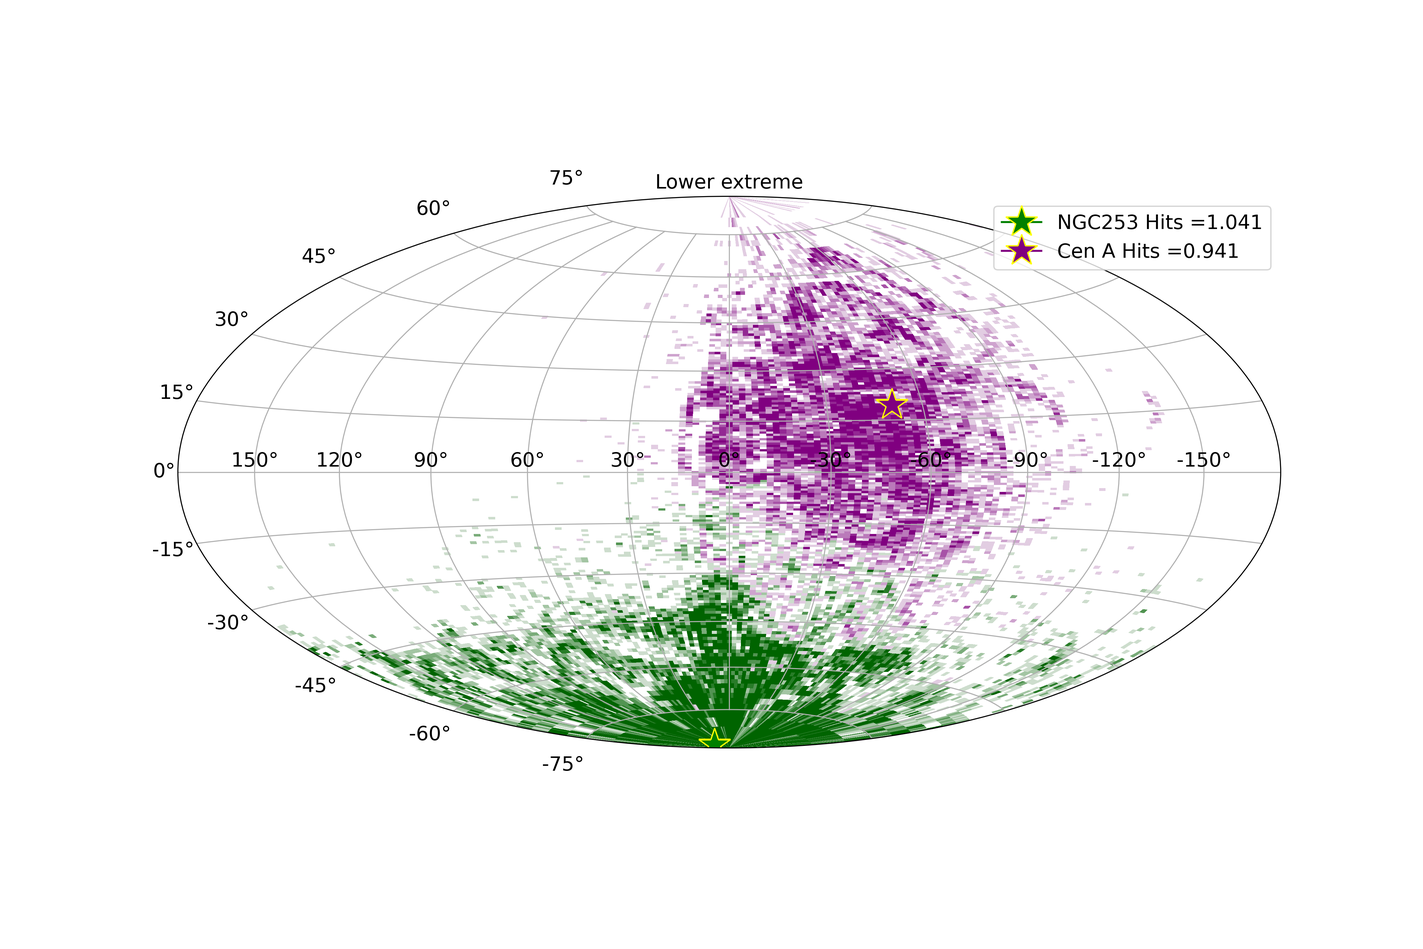
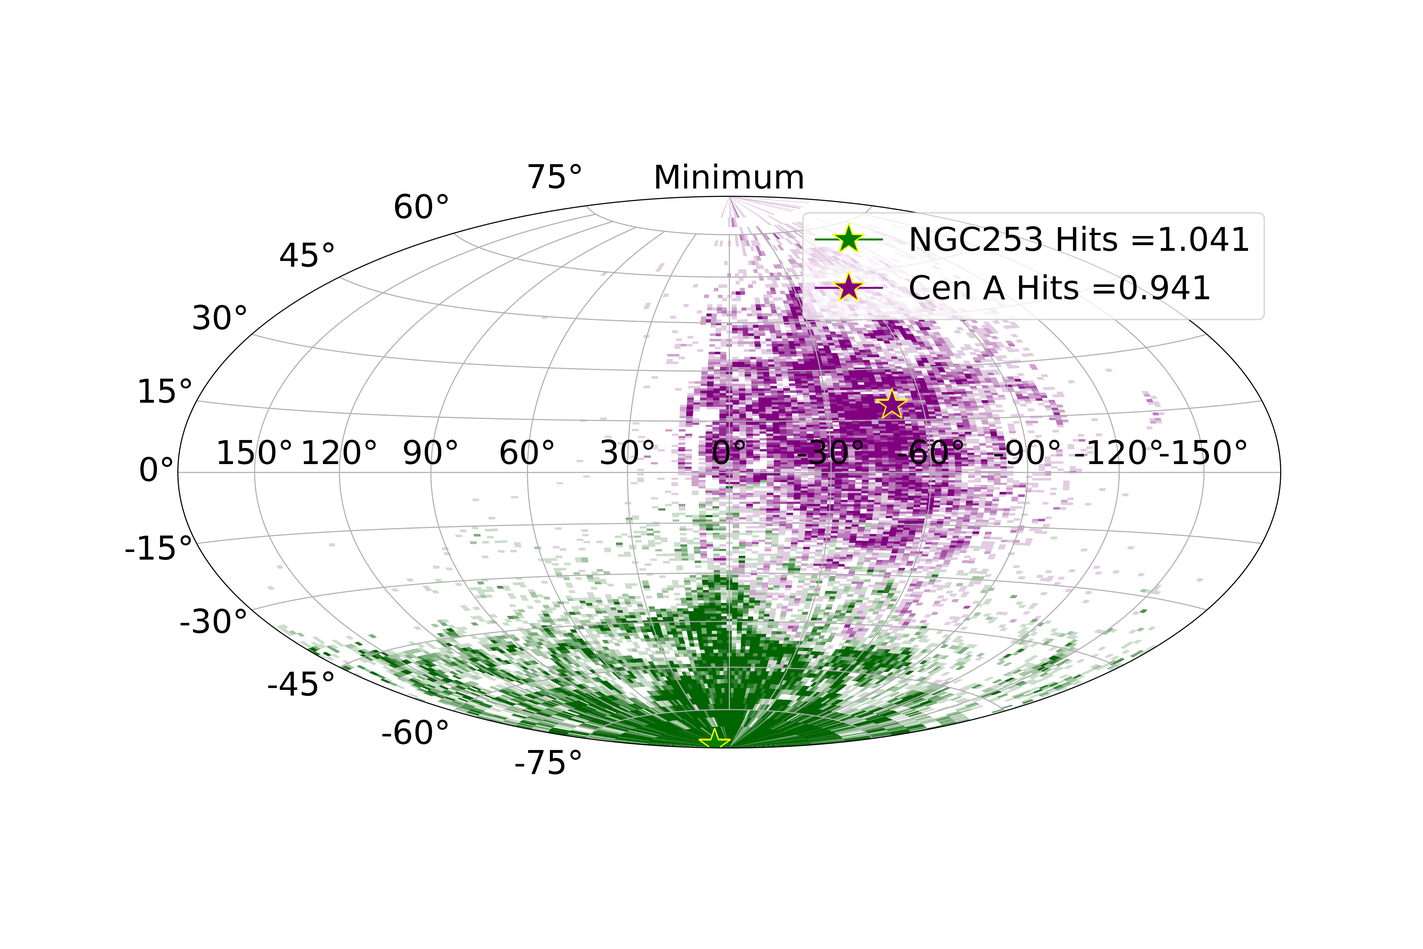
As of 31Jan PM

diff --git a/main.tex b/main.tex
@@ -66,27 +66,27 @@ The origin and structure of the Galactic magnetic field remains a long standing 
 A variety of methods allow observational probes of Galactic magnetic fields, such as starlight polarisation and infrared emission from dust grains, or Zeeman splitting of spectral radio lines in the dust clouds \cite{Beck_2007}. Galactic magnetic fields are also probed by Pulsar dispersion with Faraday rotation, which is sensitive to the magnetic-field component parallel to the line of sight $B_{\parallel}$, and synchrotron radiation which probes the component perpendicular to the line of sight $B_{\perp}$. A major drawback in using the Pulsar dispersion measure along with the Faraday rotation measure method for probing Galactic magnetic fields is that it relies heavily on the lines of sight along which Pulsars are found, which places a strong focus on the regions close to the Galactic plane. Therefore, this method is of most use for probing the magnetic field in the Galactic disc region, and is not so useful for probing the magnetic field out in the Galactic halo. Synchrotron radiation on the other hand is produced via the gyration of non-thermal electrons along magnetic field lines. This method can thus be used to probe magnetic fields also in the Galactic halo.
 
 % Observations from Fermi 
-The observations from FERMI-LAT \cite{Su_2010} in the gamma ray regime unveiled giant bipolar gamma ray bubbles extending up to $\approx$~3~kpc radially and $\approx$~8~kpc in the z-direction, having a total energy of $\approx 10^{(54-55)}$~ergs. Recently, observations from eROSITA \cite{eROSITA} in X-ray regime further suggest existence of even larger bubbles going up to  $\approx$~7~kpc radially and $\approx$~14~kpc in the azimuthal direction, having a total energy of $\approx 10^{(56)}$~ergs. These observations strongly motivate the requirement of a magnetic field model focusing on the halo. Henceforth, for the sake of simplicity we will address the two bubbles together as the Galactic halo bubbles.
+The observations from FERMI-LAT \cite{Su_2010} in the gamma ray regime unveiled giant bipolar gamma ray bubbles extending up to $\approx$~3~kpc radially and $\approx$~8~kpc in the z-direction, having a total energy of $\approx 10^{(54-55)}$~ergs. Recently, observations from eROSITA \cite{eROSITA} in X-ray regime further suggest the existence of even larger bubbles going up to  $\approx$~7~kpc radially and $\approx$~14~kpc in the azimuthal direction, having a total energy of $\approx 10^{(56)}$~ergs. These observations strongly motivate the requirement of a magnetic field model focusing on the halo. Henceforth, for the sake of simplicity we will address the two bubbles together as the Galactic halo bubbles.
 
 % Observations from S-PASS and Planck
 With the help of the aforementioned techniques, we can estimate the strength and direction of the magnetic field in different parts of the Galaxy. 
-For the Galactic halo the S-PASS \cite{Carretti_2013} observations  made at 2.3 GHz seem to suggest that the field strength in the halo bubbles can be anywhere between $6-10~\mu $G depending on the proton-electron ratio. S-PASS \cite{Carretti_2013} observation however are subject to depolarisation of polarised synchrotron radiation via Faraday rotation due to its low observation frequencies and this data set is also not sensitive to a portion of the Fermi bubbles because of its positioning in the southern hemisphere. For this reason data from Planck and WMAP are more helpful when probing magnetic fields in the Galactic halo due to their all sky coverage and observation bandwidths which are not sensitive to Faraday rotation effects.
+For the Galactic halo the S-PASS \cite{Carretti_2013} observations  made at 2.3 GHz seem to suggest that the field strength in the halo bubbles can be anywhere between $6-10~\mu $G depending on the proton-electron ratio. S-PASS \cite{Carretti_2013} observations however are subject to depolarisation of polarised synchrotron radiation via Faraday rotation due to its low observation frequencies. Additionally this data set is also not sensitive to a portion of the Fermi bubbles because of its positioning in the southern hemisphere. For this reason data from Planck and WMAP are more helpful when probing magnetic fields in the Galactic halo due to their all sky coverage and observation bandwidths which are not sensitive to Faraday rotation effects.
 
 % Other magnetic field models and energies in the halo.
 
-Several efforts have  been made in modelling magnetic fields in the Galaxy namely by \cite{Jaffe_2010},\cite{Jaffe_2011}, \cite{Sun_2008},and \cite{JF12}. It should be noted that our understanding for Galactic disc is much better than the halo due to larger amount of observational data present at varying frequencies. However, widely used models like JF12 \cite{JF12} have made considerable contributions also towards modelling of Galactic halo. One drawback with JF12 \cite{JF12} is that they mask out the Fermi bubble regions in their models but, S-PASS\cite{Carretti_2013} observations tell us that magnetic field strength in this region is not negligible. Therefore, it is important to consider modelling the Galactic halo including the Fermi bubbles.
+Several efforts have  been made in modelling magnetic fields in the Galaxy namely by \cite{Jaffe_2010}, \cite{Jaffe_2011}, \cite{Sun_2008}, and \cite{JF12}. It should be noted that our understanding of the Galactic disc is much better than that of the halo due to the larger amount of observational data present at varying frequencies. However, widely used models like JF12 \cite{JF12} have also made considerable contributions towards the modelling of the Galactic halo. One drawback of JF12 \cite{JF12} is that it masks out the Fermi bubble regions in its models, but S-PASS \cite{Carretti_2013} observations tell us that magnetic field strength in this region is not negligible. Therefore, it is important to consider modelling the Galactic halo including the Fermi bubbles.
 
 
 % Short note on non-thermal electron distribution.
 \Vasu{This paragraph needs more work}
-Apart from the Galactic magnetic field, our understanding of the non-thermal electron distribution in the Galaxy is also poor. We have some information on the distribution of cosmic ray electrons from the observations made by AMS01 \cite{AMS_2002} \& \cite{AMS_2014}, CALET \cite{Calet_2017}, DAMPE \cite{Dampe_2017}, CAPRICE94 \cite{CAPRICE_2001} , HEAT\cite{Heat_2001}, SANRIKU\cite{Sanriku_1999}, BETS\cite{Bets_2001}, PPT-BETS\cite{PPT_BETS}, ATIC-1-2\cite{AITC_1_2},H.E.S.S.\cite{HESS_2008}\cite{HESS_2009}, Fermi-LAT \cite{FERMI_2009}, \cite{FERMI_2010} \& \cite{Fermi_2017}, PAMELA \cite{Pamela}. Currently, there are a few ways to model the spatial distribution of these relativistic electrons; for example, with GALPROP \cite{Hammurabi} \cite{Orlando_2011} or the analytical WMAP model \cite{WMAP_Page}. The knowledge of non-thermal electrons is imperative in modelling Galactic magnetic field and generating synchrotron maps.  \Arjen{Perhaps this paragraph can be extended a bit. Why do we care about the non-thermal electron distribution when talking about the Galactic magnetic field? Why is our knowledge of the non-thermal electron distribution so poor? How can it be measured and how do the models that you mention relate to the measurements?} \Vasu{Currently working on it.}
+Apart from the Galactic magnetic field, our understanding of the non-thermal electron distribution in the Galaxy is also poor. We have some information on the distribution of cosmic ray electrons from the observations made by AMS01 \cite{AMS_2002} \& \cite{AMS_2014}, CALET \cite{Calet_2017}, DAMPE \cite{Dampe_2017}, CAPRICE94 \cite{CAPRICE_2001} , HEAT \cite{Heat_2001}, SANRIKU \cite{Sanriku_1999}, BETS \cite{Bets_2001}, PPT-BETS \cite{PPT_BETS}, ATIC-1-2 \cite{AITC_1_2}, H.E.S.S. \cite{HESS_2008} \cite{HESS_2009}, Fermi-LAT \cite{FERMI_2009}, \cite{FERMI_2010} \& \cite{Fermi_2017}, PAMELA \cite{Pamela}. Currently there are a few ways to model the spatial distribution of these relativistic electrons; for example, with GALPROP \cite{Hammurabi} \cite{Orlando_2011} or the analytical WMAP model \cite{WMAP_Page}. The knowledge of non-thermal electrons is imperative in modelling Galactic magnetic fields and generating synchrotron maps.  \Arjen{Perhaps this paragraph can be extended a bit. Why do we care about the non-thermal electron distribution when talking about the Galactic magnetic field? Why is our knowledge of the non-thermal electron distribution so poor? How can it be measured and how do the models that you mention relate to the measurements?} \Vasu{Currently working on it.}
 However, when modelling Galactic magnetic fields, Galactic cosmic ray electrons are not the only particles of interest. 
 
 % Importance of UHECRs
-The propagation of cosmic rays is vital to understand their sources, and this is in turn is limited by our understanding of the intervening magnetic fields. Unfortunately, both Galactic and extragalactic magnetic fields are presently poorly understood. Arrival direction of extragalactic cosmic rays (with energies higher than $\approx$~$10^{18}$), also known  as ultra high energy cosmic rays (UHECRs). These UHECRs are constituted by charged protons or nuclei, and therefore their origin directions are scrambled by the magnetic fields in the path between the source and earth. The paths of these UHECRs can, therefore, be drastically changed depending on the strength and geometry of the field. Different models of the Galactic magnetic field give vastly different predictions for the deflection of UHECRs (see e.g.~Ref.~ \cite{FARRAR_2014} \textcolor{blue}{ADD REF}). Recently, significant anisotropies in the UHECR sky have been discovered (see \cite{Auger_Starburst2018} \& \cite{ICRC_2019}. Due to the deflections in the Galactic magnetic fields, the interpretation of these results in terms of the localisation of the UHECR sources is extremely hard and hence, the knowledge of Galactic magnetic fields is extremely important. 
+The propagation of cosmic rays is vital to understand their sources, and this in turn is limited by our understanding of the intervening magnetic fields. Unfortunately, both Galactic and extragalactic magnetic fields are presently poorly understood. Arrival direction of extragalactic cosmic rays (with energies higher than $\approx$~$10^{18}$) are also known as ultra high energy cosmic rays (UHECRs). These UHECRs are constituted by charged protons or nuclei, and therefore their origin directions are scrambled by the magnetic fields in the path between the source and earth. The paths of these UHECRs can therefore be drastically changed depending on the strength and geometry of the field. Different models of the Galactic magnetic field give vastly different predictions for the deflection of UHECRs (see e.g.~Ref.~ \cite{FARRAR_2014} \textcolor{blue}{ADD REF}). Recently, significant anisotropies in the UHECR sky have been discovered (see \cite{ICRC_2021} \cite{Auger_Starburst2018} \& \cite{ICRC_2019}. Due to the deflections in the Galactic magnetic fields, the interpretation of these results in terms of the localisation of the UHECR sources is extremely hard and hence, knowledge of Galactic magnetic fields is extremely important. 
 
 % Introduction to brief layout of the paper
-The structure of this paper is the following. In section~\ref{Methods}, we provide a description of the electron distribution and the toy magnetic field model adopted in our study. In section~\ref{Results} synthetic polarised synchrotron maps are produced adopting this model, which are then compared against the Planck data. A grid scan of the model against the data is then made in order that constrained model parameters are obtained. In section~\ref{Deflections} we determine the arrival directions of ultra high energy cosmic rays $\rm E = 30$~EeV from our toy model and discuss how the uncertainties in the parameters can propagate errors in estimating the cosmic ray directions. %We also compare results from the toy model and the halo fields from JF12 model.
+The structure of this paper is the following. In section~\ref{Methods} we provide a description of the electron distribution and the toy magnetic field model adopted in our study. In section~\ref{Results} synthetic polarised synchrotron maps are produced adopting this model, which are then compared against the Planck data. A grid scan of the model against the data is then made in order to obtain constrained model parameters. In section~\ref{Deflections} we determine the arrival directions of ultra high energy cosmic rays $\rm E = 30$~EeV from our toy model and discuss how the uncertainties in the parameters can propagate errors in estimating the cosmic ray directions. %We also compare results from the toy model and the halo fields from JF12 model.
 Lastly, in section~\ref{Conclusions} we summarise our conclusions.
 
 
@@ -96,20 +96,20 @@ Lastly, in section~\ref{Conclusions} we summarise our conclusions.
 % Toy model introduction and comparison to JF12 
 \subsection{Galactic Halo Magnetic Field Model}
 \label{GMF}
-In this paper we follow the philosophy \cite{West_Helicity}, adopting a simple toy model as means of a preliminary attempt to provide a model for the Galactic halo bubbles. 
+In this paper we follow the philosophy of \cite{West_Helicity}, adopting a simple toy model as means of a preliminary attempt to provide a model for the Galactic halo bubbles. 
 
-For our toy model we adopt an axisymmetric torroidal structured field, along with a Kolmogorov turbulent field with a power-law spectrum spectrum of index $5/3$ given by the following expression:
+For our toy model we adopt an axisymmetric torroidal structured field, along with a Kolmogorov turbulent field with a power-law spectrum of index $5/3$ given by the following expression:
 \begin{equation}\label{TM_equation}
 B_{\rm{toy}}= B_{\rm{str}}\rm{e}^{{(-|z|}/Z_{\rm{mag}})} \rm{e}^{(-z_{\rm{min}}/|z|)}\rm{e}^{(-|r|/R_{\rm{mag}})} + B_{\rm{tur}}
 \end{equation}
 The structured field has 3 free parameters: $B_{\rm str}$ as the strength of the magnetic field, and $R_{\rm {mag}}$ and $Z_{\rm {mag}}$ describing the radial and azimuthal cut off distances, respectively. The model spans radially up to 20~kpc with the observer being centered at earth (-8.5,0,0)~kpc. The direction of the toroidal field is orientated in opposite directions above and below the Galactic plane. A visualisation of the field in XY and XZ cross-sections is shown in figure[\ref{fig:Vis_TM}]. 
 
 We use CRPropa~3 \cite{CRPropa3_2016} for generating turbulent fields which has a power law spectrum, with the magnitude of this component being $B_{\rm{tur}}$. 
-The minimum and maximum values of wavelength to generate these fields are  $L_{\rm min}$ = 200~pc and $L_{\rm max}$ = 400~pc. For computational reasons we stick to this restricted dynamic range of $L_{\rm min}$ and $L_{\rm max}$. The turbulent field has effectively only 1 free parameter which is the magnitude of the turbulent field strength, $ B_{\rm tur}$, with the coherence length of the field being kept fixed at 150~pc.  In appendix ~\ref{Appendix_B} we show a power-spectrum plot for this turbulent magnetic field description.
+The minimum and maximum values of wavelength to generate these fields are  $L_{\rm min}$ = 200~pc and $L_{\rm max}$ = 400~pc. For computational reasons we stick to this restricted dynamic range of $L_{\rm min}$ and $L_{\rm max}$. The turbulent field has effectively only 1 free parameter which is the magnitude of the turbulent field strength, $ B_{\rm tur}$, with the coherence length of the field being kept fixed at 150~pc.  In appendix~\ref{Appendix_B} we show a power-spectrum plot for this turbulent magnetic field description.
 
 Since, we focus only on the Galactic regions of the sky which probe the Galactic halo, we do not include any disk magnetic field component in this model. For the purposes of comparison, we use the JF12 model as a comparative reference since it is a widely known Galactic magnetic field model.
 %We studied each component of the JF12 field separately in order to ascertain how the different components of the Galactic magnetic field model act individually and together. 
-However, it should be noted that the JF12 model was motivated by observations which masked out a large part of the Galactic bubble region, and adopts magnetic fields strengths weaker than the ones suggested by S-PASS observation \cite{Carretti_2013}.
+However, it should be noted that the JF12 model was motivated by observations which masked out a large part of the Galactic bubble region and adopts magnetic fields strengths weaker than the ones suggested by S-PASS observation \cite{Carretti_2013}.
 \begin{figure*}
 \centering
 \includegraphics[width = 0.49\linewidth]{Images/ToyModel_BestFit_XZ.png}%
@@ -134,13 +134,13 @@ where $\frac{\mathrm{d}n_e}{\mathrm{dlog}E_{e}}$ is the differential electron de
 % EdNdE plots for some arbitrary parameters which will be fixed post equipartition scans.
 \begin{figure*}
 \centering
-\includegraphics[width= 0.49\linewidth]{Images/Linear_EdNdE.png}%
+\includegraphics[width=0.49\linewidth]{Images/Linear_EdNdE.png}%
 \includegraphics[width = 0.49\linewidth]{Images/Log_EdNdE.png}
-\caption{An example of the electron distribution for an electron energy (say) $E_e = $10~GeV, $R_{\mathrm{el}} = 5$ kpc and $Z_{\mathrm{el}} = 7$~kpc in linear scale on left and log-scale on right. \Andrew{Why is ref. density in plots so low?}}
+\caption{An example of the electron distribution for an electron energy (say) $E_e = $1~GeV, $R_{\mathrm{el}} = 5$ kpc and $Z_{\mathrm{el}} = 7$~kpc in linear scale on left and log-scale on right. Since the electron distribution spectra peaks at 1~GeV we show the distribution for 1~GeV. $C_\mathrm{norm}$ value for this plot is $10^{-12.43}$ (see table~\ref{Para_table}) }  %\Andrew{Why is ref. density in plots so low?}}
 \label{fig:electron_density}
 \end{figure*}
 
-\Andrew{ALSO, I SUGGEST $n_e$ BE USED FOR DENSITY (SHOULD THEREFORE BE USED IN FIG.~\ref{electron_density}), AND $N_e$ BE KEPT FOR TOTAL NUMBER- THIS WAY WILL HELP KEEP CONSISTENCY WITHEQNS~\ref{Jperp} AND \ref{Jpara}.}
+%\Andrew{ALSO, I SUGGEST $n_e$ BE USED FOR DENSITY (SHOULD THEREFORE BE USED IN FIG.~\ref{electron_density}), AND $N_e$ BE KEPT FOR TOTAL NUMBER- THIS WAY WILL HELP KEEP CONSISTENCY WITHEQNS~\ref{Jperp} AND \ref{Jpara}.}
 
 % synchrotron radiation expressions and theory, also the appendix.
 \subsection{Synchrotron Emission}\label{Synchrotron_theory}
@@ -154,7 +154,7 @@ The two polarisation emission components, $J_{\perp}$ and $J_{\parallel}$, descr
 
 \begin{strip}
 \begin{equation}
- {J_{\perp}^l} =   \int_{\mathrm{log}E_e^{\mathrm{min}}}^{\mathrm{log}E_e^{\mathrm{max}}}\mathrm{dlog}E_{e} \  \frac{\mathrm{d}N_e}{\mathrm{dlog}E_{e}} \  \left[F\left(\frac{E_{\gamma}}{E_{\gamma}^{\mathrm{peak}}}\right) + G\left(\frac{E_{\gamma}}{E_{\gamma}^{\mathrm{peak}}}\right)\right] * \frac{B_{\perp}}{B_{\mathrm{crit}}}\frac{m_{e}}{h} \frac{8\pi \alpha}{9} 
+ {J_{\perp}^l} =   \int_{\mathrm{log}E_e^{\mathrm{min}}}^{\mathrm{log}E_e^{\mathrm{max}}}\mathrm{dlog}E_{e} \  \frac{\mathrm{d}n_e}{\mathrm{dlog}E_{e}} \  \left[F\left(\frac{E_{\gamma}}{E_{\gamma}^{\mathrm{peak}}}\right) + G\left(\frac{E_{\gamma}}{E_{\gamma}^{\mathrm{peak}}}\right)\right] * \frac{B_{\perp}}{B_{\mathrm{crit}}}\frac{m_{e}}{h} \frac{8\pi \alpha}{9} 
  \label{Jperp}
 \end{equation}
 \end{strip}
@@ -164,7 +164,7 @@ and,
 \begin{strip}
 %\begin{widetext}
 \begin{equation}
-{J_{\parallel}^l} = \int_{\mathrm{log}E_e^{\mathrm{min}}}^{\mathrm{log}E_e^{\mathrm{max}}}\mathrm{dlog}E_{e} \ \frac{\mathrm{d}N_e}{\mathrm{dlog}E_{e}} \  \left[F\left(\frac{E_{\gamma}}{E_{\gamma}^{\mathrm{peak}}}\right) - G\left(\frac{E_{\gamma}}{E_{\gamma}^{\mathrm{peak}}}\right)\right] * \frac{B_{\perp}}{B_{\mathrm{crit}}}\frac{m_{e}}{h} \frac{8\pi \alpha}{9}
+{J_{\parallel}^l} = \int_{\mathrm{log}E_e^{\mathrm{min}}}^{\mathrm{log}E_e^{\mathrm{max}}}\mathrm{dlog}E_{e} \ \frac{\mathrm{d}n_e}{\mathrm{dlog}E_{e}} \  \left[F\left(\frac{E_{\gamma}}{E_{\gamma}^{\mathrm{peak}}}\right) - G\left(\frac{E_{\gamma}}{E_{\gamma}^{\mathrm{peak}}}\right)\right] * \frac{B_{\perp}}{B_{\mathrm{crit}}}\frac{m_{e}}{h} \frac{8\pi \alpha}{9}
 \label{Jpara}
 \end{equation}
 %\end{widetext}
@@ -176,7 +176,7 @@ where the functions,
 F(x) &= x \int_x^\infty K_{5/3}(x') dx'\\
 G(x) &= x K_{2/3}.
 \end{align}
-\Andrew{IN THE ABOVE IT MIGHT BE BETTER TO PROVIDE THE EMISSIVITY OF THE TWO POLARISATION COMPONENTS}
+\Andrew{IN THE ABOVE IT MIGHT BE BETTER TO PROVIDE THE EMISSIVITY OF THE TWO POLARISATION COMPONENTS. DISCUSSION ON LINE-OF-SIGHT INTEGRAL NEEDS ADDING TOO.}
 These expressions are provided in terms of the critical field magnetic field strength, $B_{\mathrm{crit}} = \frac{m_e^2c^3}{e\hbar} = 4.414 \times 10^{13}$~G , where $m_e = 0.511$~MeV is the mass of electron, $h = 4.136 \times 10^{-15}$~eV~s is the Planck's constant and $\alpha \approx \frac{1}{137.04}$ is the electromagnetic fine structure constant.
 
 For clarity, several of the conventions we adopted are here noted. The parallel component of polarisation (${J_{\parallel}}$) is orientated in the same direction as  $\vec{B_{\perp}}$, and the perpendicular component of polarisation (${J_{\perp}}$) is perpendicular to $\vec{B_{\perp}}$. The Stokes parameters at each point along the line of sight can be written in terms of the intrinsic polarisation angle $\Psi^l_{\rm in}$ which is the angle between the line of sight perpendicular component of the magnetic field $B_{\perp}$ and Galactic south at each step. The conventions adopted here match those used by the Planck collaboration \cite{Planck_XIX} based on the $\rm HEALPix^3$~\footnote{\textcolor{purple}{https://healpix.jpl.nasa.gov/}} software by \cite{Healpix_2005}. For each step along the line-of-sight, both  ${J_{\perp}^l}$ and ${J_{\parallel}^l}$ are subsequently used to obtain the $Q$ and $U$ Stokes parameters. The integrated values along the line of sight can be defined as  $Q^{\rm tot}_{\rm in}$ and $U^{\rm tot}_{\rm in}$ as:
@@ -190,20 +190,20 @@ The polarised flux ($I_{\rm pol}$) can then be expressed in terms of the intrins
 I_{\rm pol} = \sqrt{(Q_{\rm in}^{\rm tot})^2+(U_{\rm in}^{\rm tot})^2} = J_{\perp}^{\rm tot} - J_{\parallel}^{\rm tot} ,\ \rm and
 \end{eqnarray}
 \begin{equation} \label{eq_I_tot}
-    I_{\rm tot} = J_{\perp}^{\rm tot} + J_{\parallel}^{\rm tot} 
+    I_{\rm tot} = \int_0^L (J_{\perp}^{\rm l} + J_{\parallel}^{\rm l}) \rm{d}l
 \end{equation}
 $I_{\rm tot}$ is computed by summing the contributions of $J_{\perp}^l$ and and $J_{\parallel}^l$ for each point along the line of sight. 
-% \Andrew{I don't think you give the reader sufficient information here. How $I_{\rm tot}$ is obtained (simple summing from each shell) needs explaining.}
+% \Andrew{NEEDS STATING IN A MATHEMATIC LANGUAGE.}
 $J_{\perp}^{\rm tot}$ and $J_{\parallel}^{\rm tot}$ are the resultant magnitudes of emissions in perpendicular and parallel directions and can be given by:
 \begin{eqnarray}
 J_{\perp}^{\rm tot} = (I_{\rm tot} + I_{\rm pol})/2 \\
 J_{\parallel}^{\rm tot} = (I_{\rm tot} - I_{\rm pol})/2 
 \end{eqnarray}
-In appendix(\ref{Appendix_A}) we explain in detail the relation between these equations with two simplified cases.
 The intrinsic polarisation angle $\Psi_{\rm in}$ is the resulting angle of polarisation.%\Andrew{This doesn't sound right- this angle describe the angle of the results polarised emission direction wrt Galactic south, not the "local magnetic field component" direction}:
 \begin{eqnarray}
 \tan(2\Psi_{\rm in}) = \frac{U_{\rm in}^{\rm tot}}{Q_{\rm in}^{\rm tot}} 
 \end{eqnarray}
+In appendix(\ref{Appendix_A}) we explain in detail the relation between these equations with two simplified cases.
 
 %% Details of simulation like scanning range, cuts etc
 \subsection{Simulation setup for the polarised synchrotron emission}
@@ -367,13 +367,17 @@ It can be seen that the best fit and lower extreme parameters can clearly help i
 \includegraphics[width=0.49\linewidth]{Images/Log_Bins_180_Historgam_LB_N2_Str_Tur_TM_40_EeV.png}
 \includegraphics[width=0.49\linewidth]{Images/Bins_180_LB_N2_CenA_NGC253_Str_Tur_TM_40_EeV.png}\\
 \includegraphics[width=0.49\linewidth]{Images/Log_Bins_180_Historgam_UB_N2_Str_Tur_TM_40_EeV.png}
-\includegraphics[width=0.49\linewidth]{Images/Bins_180_UB_N2_CenA_NGC253_Str_Tur_TM_40_EeV.png}
-\includegraphics[width=0.49\linewidth]{Images/Colorbar.png}
-\caption{Log brightness of the backtracked positions for cosmic rays shown on \textbf{left} and the arrival directions of the cosmic rays from two known sources Cen A and NGC 253 on \textbf{right} (From table~\ref{Para_table} \textbf{Top} - Best Fit Parameters, {\textbf{Middle} - Lower extreme parameters)} \& {\textbf{Bottom} - Upper extreme parameters, we use $R_{\rm Mag} = $ 20~kpc since that is the maximum extent of the magnetic fields in our simulation.}}
+\includegraphics[width=0.49\linewidth]{Images/Bins_180_UB_N2_CenA_NGC253_Str_Tur_TM_40_EeV.png}\
+\hspace*{+9cm}                                      \includegraphics[width=0.40\linewidth]{Images/Colorbar.png}
+\vspace*{0.001mm}
+\caption{Log brightness of the backtracked positions for cosmic rays shown on \textbf{left} and the arrival directions of the cosmic rays from two known sources Cen A and NGC 253 on \textbf{right} (From table~\ref{Para_table} \textbf{Top} - Best Fit Parameters, {\textbf{Middle} - Lower extreme parameters)} \& {\textbf{Bottom} - Upper extreme parameters, we use $R_{\rm Mag} = $ 20~kpc since that is the maximum extent of the magnetic fields in our simulation.} \Andrew{BIG LABELS STATING "MAXIMUM" AND "MINIMUM" NEEDS ADDING TO EACH ROW.}}
 \label{fig:AD_Plots}
 \end{figure*}
 %\newpage
-
+% \begin{frame}
+% \hbox{\hspace{-0.5em}
+% \includegraphics[scale=0.6]{Images/Colorbar.png}}
+% \end{frame}
 \section{Conclusions}
 \label{Conclusions}
 
